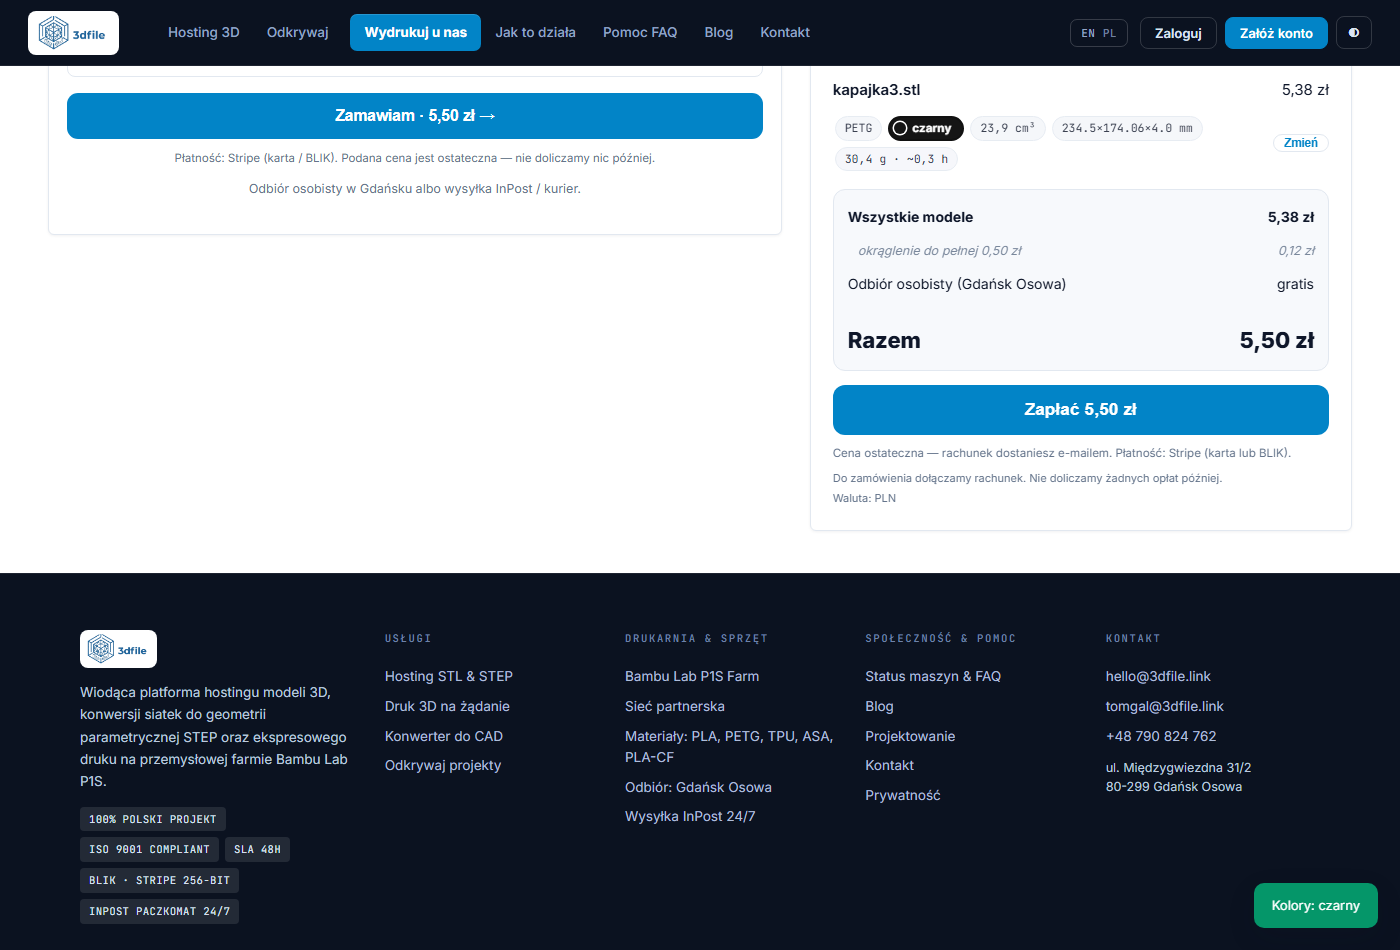
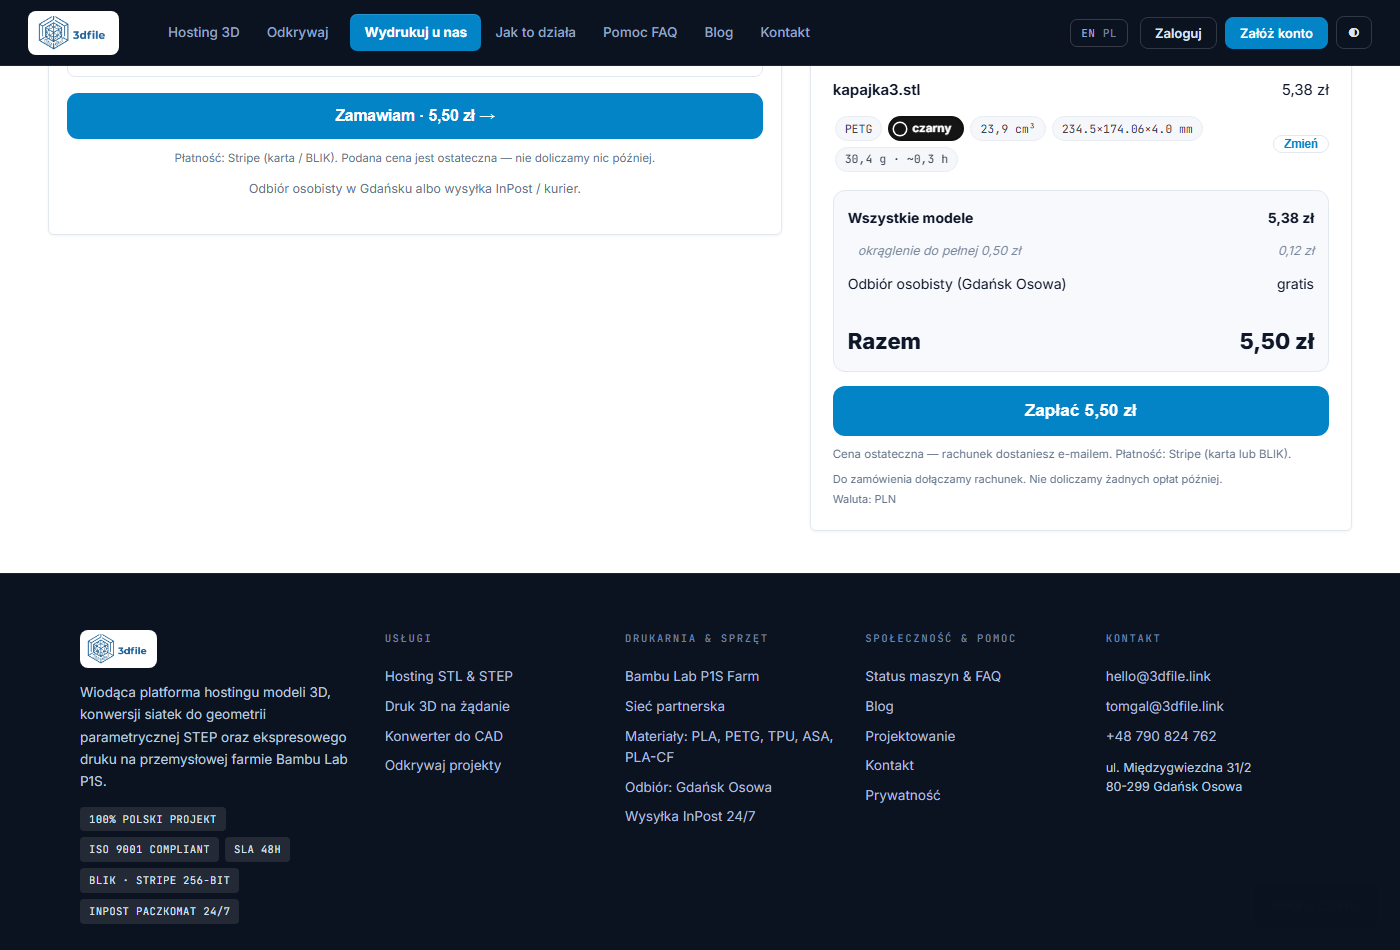
feat(viewer): getMesh() na API - aktywna bryla do diagnostyki

diff --git a/frontend/asset/viewer_pro.js b/frontend/asset/viewer_pro.js
@@ -561,6 +561,8 @@ export function initViewerPro(opts) {
 
   const api = {
     three: THREE, scene, camera, renderer, controls, group,
+    // aktywna bryła — do diagnostyki (testy podgladu, konsola przegladarki)
+    getMesh: function () { return mesh; },
     setMesh: function (geo, keepView) { setMesh(geo, keepView); loaded = true; },
     /* replacement mesh from an external loader (e.g. STEP via OCCT WASM) */
     attachMesh: function (geo) { setMesh(geo); loaded = true; if (barEl) refreshBar(); },

diff --git a/frontend/order.html b/frontend/order.html
@@ -1320,7 +1320,7 @@ function saveProfileShip(){
 </script>
 
 <script type="module">
-import { initViewerPro } from '/asset/viewer_pro.js?v=14';
+import { initViewerPro } from '/asset/viewer_pro.js?v=15';
 /* Podglad w koszyku = ten sam pelny konfigurator co wszedzie: toolbar
    (obrot/siatka/krawedzie/podloga/tlo/zoom/PNG/fullscreen) na scianie z konturem. */
 window.__local3d = {
